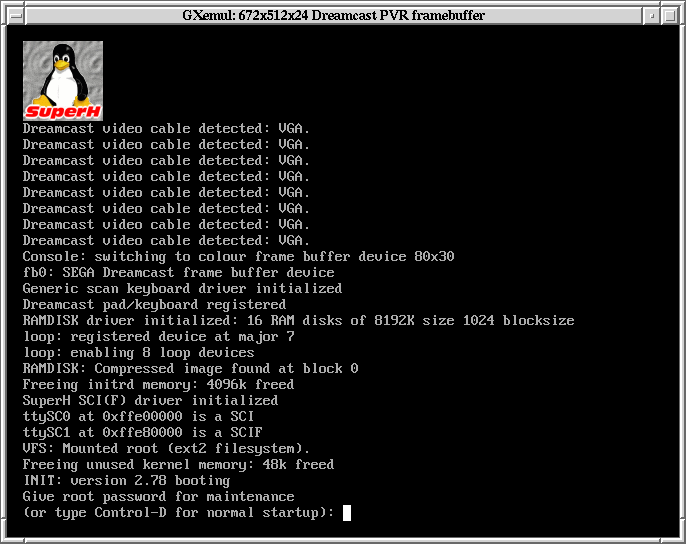
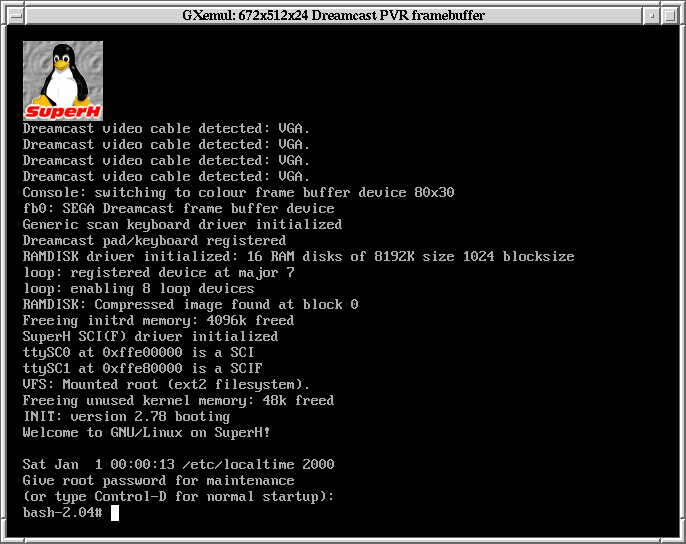
Fixes to two SuperH instructions (loads/stores with GBR); a Linux/dreamcast Live CD now works :-)

diff --git a/gxemul-legacy/trunk/doc/dreamcast.html b/gxemul-legacy/trunk/doc/dreamcast.html
@@ -10,7 +10,7 @@
 
 <!--
 
-$Id: dreamcast.html,v 1.10 2007-03-08 12:38:27 debug Exp $
+$Id: dreamcast.html,v 1.11 2007-03-08 19:04:09 debug Exp $
 
 Copyright (C) 2006-2007  Anders Gavare.  All rights reserved.
 
@@ -154,8 +154,6 @@ bytes each.)
 <b><tt>file system</tt></b>, and <b><tt>init path</tt></b>, just press 
 Enter.
 
-<p><font color="#ff0000">NOTE:</font> This is not 100% stable yet;
-sometimes things bug out.
 
 
 
@@ -176,14 +174,10 @@ sometimes things bug out.
 </pre>
 
 Once you have downloaded the ISO image, type the following command to 
-attempt to boot directly from the image:<pre>
+boot directly from the image:<pre>
 	<b>gxemul -XEdreamcast -d co23965696:lc2000.iso</b>
 </pre>
 
-<p><font color="#ff0000">2006-11-12: NOTE: This does <b>not</b>
-really work yet.</font> The "Give root password for maintainance"
-prompt appears too early, compared to when running the same ISO image on a 
-real Dreamcast, and it is impossible to get past that point.
 
 
 

diff --git a/gxemul-legacy/trunk/doc/intro.html b/gxemul-legacy/trunk/doc/intro.html
@@ -10,7 +10,7 @@
 
 <!--
 
-$Id: intro.html,v 1.106 2007-02-18 09:19:47 debug Exp $
+$Id: intro.html,v 1.107 2007-03-08 19:04:09 debug Exp $
 
 Copyright (C) 2003-2007  Anders Gavare.  All rights reserved.
 
@@ -519,7 +519,7 @@ are emulated well enough to run at least one "guest OS":
   <p>
   <li><b><u>SuperH</u></b>
   <ul>
-    <li><b>Sega Dreamcast</b> (<a href="dreamcast.html#netbsd_generic_md">NetBSD/dreamcast</a>)
+    <li><b>Sega Dreamcast</b> (<a href="dreamcast.html#netbsd_generic_md">NetBSD/dreamcast</a>, <a href="dreamcast.html#linux_live_cd">Linux/dreamcast</a>)
   </ul>
 </ul>
 

diff --git a/gxemul-legacy/trunk/doc/index.html b/gxemul-legacy/trunk/doc/index.html
@@ -10,7 +10,7 @@
 
 <!--
 
-$Id: index.html,v 1.270 2007-02-21 17:05:05 debug Exp $
+$Id: index.html,v 1.271 2007-03-08 19:04:09 debug Exp $
 
 Copyright (C) 2003-2007  Anders Gavare.  All rights reserved.
 
@@ -123,6 +123,7 @@ SUCH DAMAGE.
     <li><a href="dreamcast.html#intro">Introduction</a>
     <li><a href="dreamcast.html#netbsd_generic_md">NetBSD/dreamcast GENERIC_MD</a>
     <li><a href="dreamcast.html#netbsd_live_cd">NetBSD/dreamcast Live CD</a>
+    <li><a href="dreamcast.html#linux_live_cd">Linux/dreamcast Live CD</a>
   </ul>
 
   <p>

diff --git a/gxemul-legacy/trunk/src/cpus/cpu_sh_instr.c b/gxemul-legacy/trunk/src/cpus/cpu_sh_instr.c
@@ -25,7 +25,7 @@
  *  SUCH DAMAGE.
  *
  *
- *  $Id: cpu_sh_instr.c,v 1.50 2007-03-06 18:45:18 debug Exp $
+ *  $Id: cpu_sh_instr.c,v 1.51 2007-03-08 19:04:09 debug Exp $
  *
  *  SH instructions.
  *
@@ -285,10 +285,10 @@ X(add_imm_rn) { reg(ic->arg[1]) += (int32_t)ic->arg[0]; }
 
 
 /*
- *  mov_b_rm_predec_rn:  mov.b reg,@-Rn
- *  mov_w_rm_predec_rn:  mov.w reg,@-Rn
- *  mov_l_rm_predec_rn:  mov.l reg,@-Rn
- *  stc_l_rm_predec_rn:  mov.l reg,@-Rn, with MD status bit check
+ *  mov_b_rm_predec_rn:     mov.b reg,@-Rn
+ *  mov_w_rm_predec_rn:     mov.w reg,@-Rn
+ *  mov_l_rm_predec_rn:     mov.l reg,@-Rn
+ *  stc_l_rm_predec_rn_md:  mov.l reg,@-Rn, with MD status bit check
  *
  *  arg[0] = ptr to rm  (or other register)
  *  arg[1] = ptr to rn
@@ -362,7 +362,7 @@ X(mov_l_rm_predec_rn)
 		reg(ic->arg[1]) = addr;
 	}
 }
-X(stc_l_rm_predec_rn)
+X(stc_l_rm_predec_rn_md)
 {
 	uint32_t addr = reg(ic->arg[1]) - sizeof(uint32_t);
 	uint32_t *p = (uint32_t *) cpu->cd.sh.host_store[addr >> 12];
@@ -3112,7 +3112,7 @@ X(to_be_translated)
 			ic->f = instr(shld);
 		} else if ((lo8 & 0x8f) == 0x83) {
 			/*  STC.L Rm_BANK,@-Rn  */
-			ic->f = instr(stc_l_rm_predec_rn);
+			ic->f = instr(stc_l_rm_predec_rn_md);
 			ic->arg[0] = (size_t)&cpu->cd.sh.r_bank[
 			    (lo8 >> 4) & 7];	/* m */
 		} else if ((lo8 & 0x8f) == 0x87) {
@@ -3137,7 +3137,7 @@ X(to_be_translated)
 				ic->arg[0] = (size_t)&cpu->cd.sh.mach;
 				break;
 			case 0x03:	/*  STC.L SR,@-Rn  */
-				ic->f = instr(stc_l_rm_predec_rn);
+				ic->f = instr(stc_l_rm_predec_rn_md);
 				ic->arg[0] = (size_t)&cpu->cd.sh.sr;
 				break;
 			case 0x04:	/*  ROTL Rn  */
@@ -3182,7 +3182,7 @@ X(to_be_translated)
 				ic->arg[0] = (size_t)&cpu->cd.sh.macl;
 				break;
 			case 0x13:	/*  STC.L GBR,@-Rn  */
-				ic->f = instr(stc_l_rm_predec_rn);
+				ic->f = instr(mov_l_rm_predec_rn);
 				ic->arg[0] = (size_t)&cpu->cd.sh.gbr;
 				break;
 			case 0x15:	/*  CMP/PL Rn  */
@@ -3193,7 +3193,7 @@ X(to_be_translated)
 				ic->arg[0] = (size_t)&cpu->cd.sh.macl;
 				break;
 			case 0x17:	/*  LDC.L @Rm+,GBR  */
-				ic->f = instr(mov_l_arg1_postinc_to_arg0_md);
+				ic->f = instr(mov_l_arg1_postinc_to_arg0);
 				ic->arg[0] = (size_t)&cpu->cd.sh.gbr;
 				break;
 			case 0x18:	/*  SHLL8 Rn  */
@@ -3222,7 +3222,7 @@ X(to_be_translated)
 				ic->arg[1] = (size_t)&cpu->cd.sh.r[r8];	/* n */
 				break;
 			case 0x23:	/*  STC.L VBR,@-Rn  */
-				ic->f = instr(stc_l_rm_predec_rn);
+				ic->f = instr(stc_l_rm_predec_rn_md);
 				ic->arg[0] = (size_t)&cpu->cd.sh.vbr;
 				break;
 			case 0x24:	/*  ROTCL Rn  */
@@ -3264,7 +3264,7 @@ X(to_be_translated)
 				ic->arg[1] = (size_t)&cpu->cd.sh.vbr;
 				break;
 			case 0x33:	/*  STC.L SSR,@-Rn  */
-				ic->f = instr(stc_l_rm_predec_rn);
+				ic->f = instr(stc_l_rm_predec_rn_md);
 				ic->arg[0] = (size_t)&cpu->cd.sh.ssr;
 				break;
 			case 0x37:	/*  LDC.L @Rm+,SSR  */
@@ -3277,7 +3277,7 @@ X(to_be_translated)
 				ic->arg[1] = (size_t)&cpu->cd.sh.ssr;
 				break;
 			case 0x43:	/*  STC.L SPC,@-Rn  */
-				ic->f = instr(stc_l_rm_predec_rn);
+				ic->f = instr(stc_l_rm_predec_rn_md);
 				ic->arg[0] = (size_t)&cpu->cd.sh.spc;
 				break;
 			case 0x47:	/*  LDC.L @Rm+,SPC  */

diff --git a/gxemul-legacy/trunk/src/devices/dev_dreamcast_maple.c b/gxemul-legacy/trunk/src/devices/dev_dreamcast_maple.c
@@ -25,7 +25,7 @@
  *  SUCH DAMAGE.
  *   
  *
- *  $Id: dev_dreamcast_maple.c,v 1.13 2007-03-08 12:12:43 debug Exp $
+ *  $Id: dev_dreamcast_maple.c,v 1.14 2007-03-08 19:04:09 debug Exp $
  *  
  *  Dreamcast "Maple" bus controller.
  *
@@ -41,6 +41,7 @@
  *
  *  TODO:
  *	Unit numbers / IDs for real Maple devices.
+ *	The Controller (up/down/left/right, buttons, etc).
  */
 
 #include <stdio.h>
@@ -140,16 +141,22 @@ static struct maple_device maple_device_mouse = {
 DEVICE_TICK(maple)
 {
 	struct dreamcast_maple_data *d = (struct dreamcast_maple_data *) extra;
-	int control_bits, key = console_readchar(d->console_handle);
+	int key;
 
-	if (key < 0)
-		return;
+	while ((key = console_readchar(d->console_handle)) >= 0) {
+		/*  Add to the keyboard queue:  */
+		d->char_queue[d->char_queue_head] = key;
+		d->char_queue_head = (d->char_queue_head + 1) % MAX_CHARS;
+		if (d->char_queue_head == d->char_queue_tail)
+			fatal("[ dreamcast_maple: KEYBOARD QUEUE OVERRUN! ]\n");
+	}
 
-	/*  Add to the keyboard queue:  */
-	d->char_queue[d->char_queue_head] = key;
-	d->char_queue_head = (d->char_queue_head + 1) % MAX_CHARS;
-	if (d->char_queue_head == d->char_queue_tail)
-		fatal("[ dreamcast_maple: KEYBOARD QUEUE OVERRUN! ]\n");
+#if 0
+	/*
+	 *  NOTE/TODO:
+	 *
+	 *  Implement the controller in a reasonable way!
+	 */
 
 	control_bits = 0;
 	switch (key) {
@@ -207,6 +214,7 @@ DEVICE_TICK(maple)
 			fatal("[ dreamcast_maple: CONTROLLER QUEUE "
 			    "OVERRUN! ]\n");
 	}
+#endif
 }
 
 

diff --git a/gxemul-legacy/trunk/src/cpus/cpu_sh.c b/gxemul-legacy/trunk/src/cpus/cpu_sh.c
@@ -25,7 +25,7 @@
  *  SUCH DAMAGE.
  *
  *
- *  $Id: cpu_sh.c,v 1.61 2007-03-08 11:43:23 debug Exp $
+ *  $Id: cpu_sh.c,v 1.62 2007-03-08 19:04:09 debug Exp $
  *
  *  Hitachi SuperH ("SH") CPU emulation.
  *
@@ -659,14 +659,19 @@ void sh_exception(struct cpu *cpu, int expevt, int intevt, uint32_t vaddr)
 		cpu->cd.sh.spc += sizeof(uint16_t);
 		break;
 
-	/*
-	 *  Note: EXPEVT_RES_INST would be best to have commented out,
-	 *  so that invalid instructions are caught. However, guest OSes
-	 *  such as Linux seem to actually use this during normal execution,
-	 *  so it has to be enabled :-/
-	 */
 	case EXPEVT_RES_INST:
+		/*
+		 *  Note: Having this code here makes it possible to catch
+		 *  reserved instructions; during normal instruction execution,
+		 *  these are not very common.
+		 */
+#if 1
+		printf("\nRESERVED SuperH instruction at spc=%08"PRIx32"\n",
+		    cpu->cd.sh.spc);
+		exit(1);
+#else
 		break;
+#endif
 
 	case EXPEVT_FPU_DISABLE:
 		break;
